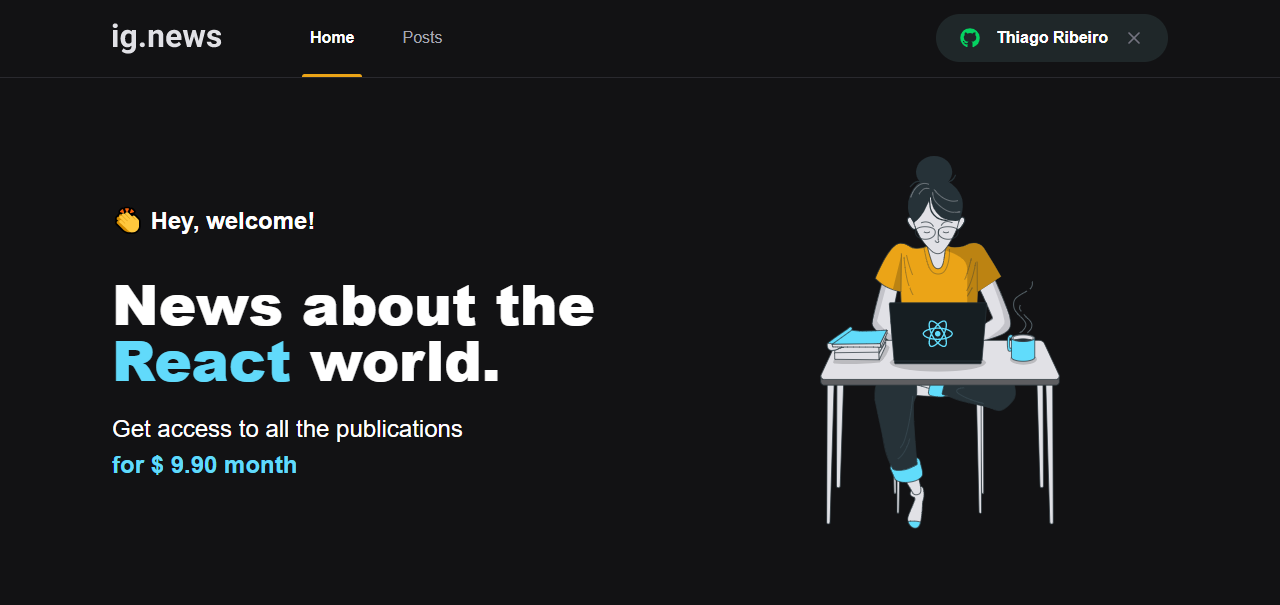
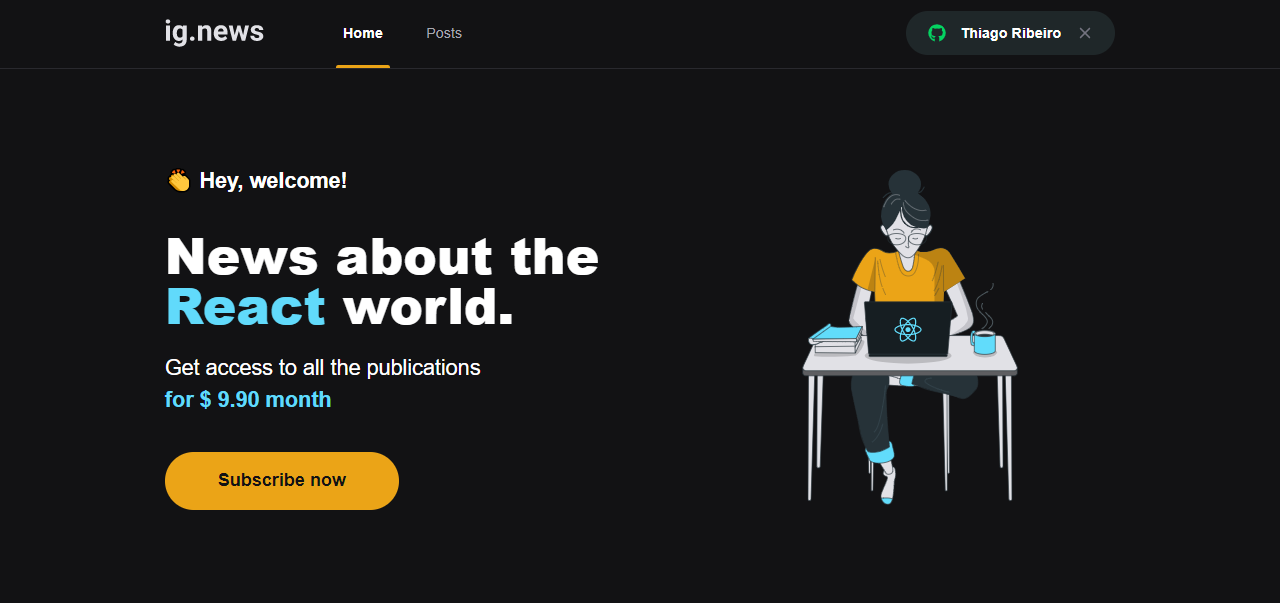
em desenvolvimento 14/05

diff --git a/src/pages/index.tsx b/src/pages/index.tsx
@@ -1,4 +1,5 @@
 import Head from 'next/head';
+import { SubscribeButton } from '../components/SubscribeButton';
 import styles from './home.module.scss';
 
 export default function Home() {
@@ -15,6 +16,7 @@ export default function Home() {
             Get access to all the publications <br />
             <span>for $ 9.90 month</span>  
           </p>
+          <SubscribeButton />
         </section>
         <img src="/images/avatar.svg" alt="Girl coding" />
       </main>

diff --git a/src/components/SubscribeButton/style.module.scss b/src/components/SubscribeButton/style.module.scss
@@ -1,0 +1,20 @@
+
+.subscribeButton {
+  height: 4rem;
+  width: 260px;
+  border: 0;
+  border-radius: 2rem;
+  background: var(--yellow-500);
+  color: var(--gray-900);
+  font-size: 1.25rem;
+  font-weight: bold;
+
+  display: flex;
+  align-items: center;
+  justify-content: center;
+  transition: filter 0.2s;
+
+  &:hover {
+    filter: brightness(0.8);
+  }
+}

diff --git a/src/components/SubscribeButton/index.tsx b/src/components/SubscribeButton/index.tsx
@@ -1,0 +1,10 @@
+import styles from './style.module.scss';
+
+export function SubscribeButton() {
+
+  return (
+    <button className={styles.subscribeButton} type="button">
+      Subscribe now
+    </button>
+  )
+}

diff --git a/src/pages/home.module.scss b/src/pages/home.module.scss
@@ -43,4 +43,8 @@
       font-weight: bold;
     }
   }
+
+  button {
+    margin-top: 2.5rem;
+  }
 }
